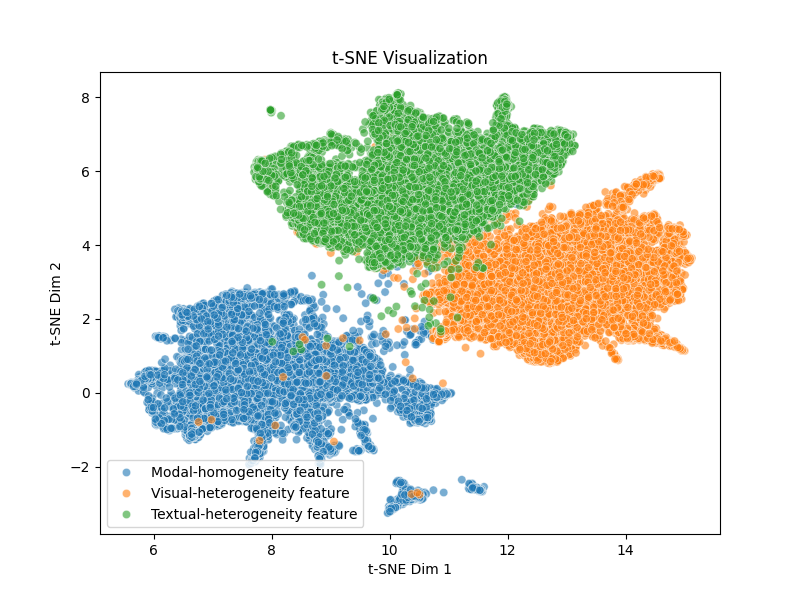
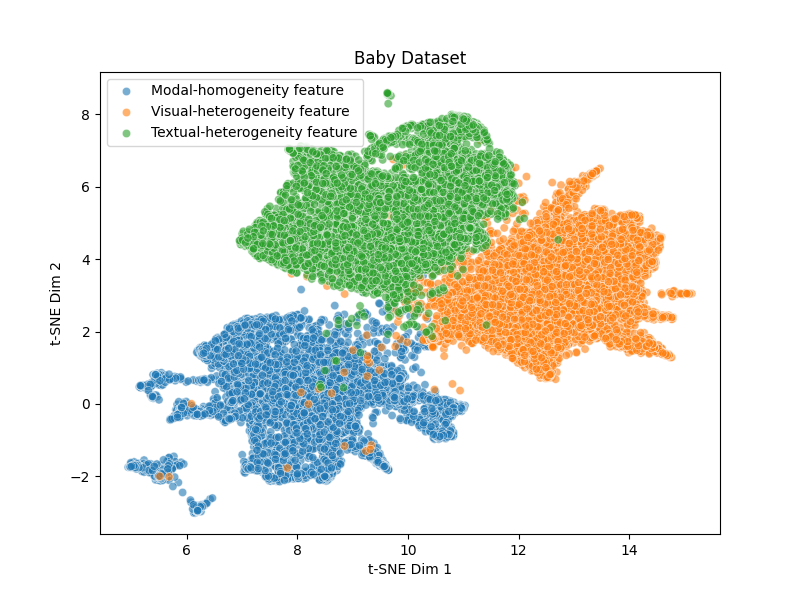
readme

diff --git a/README.md b/README.md
@@ -1,7 +1,16 @@
 # D3ER: On the Disentangle and Ensemble of Multi-Modal Recommendation
 
 This is the PyTorch implementation for **D3ER** proposed in the paper **D3ER: On the Disentangle and Ensemble of Multi-Modal Recommendation**.
+<img src="./figures/method.png" title="baby" style="zoom:95%;" />
 
+
+## T-SNE Visualization
+
+<center class="half">
+<img src="./figures/tsne_baby.png"  title="baby" style="zoom:30%;">
+<img src="./figures/tsne_sports.png" style="zoom:30%;">
+<img src="./figures/tsne_clothing.png" style="zoom:30%;">
+</center>
 
 ## 🚀 How to run the codes
 
